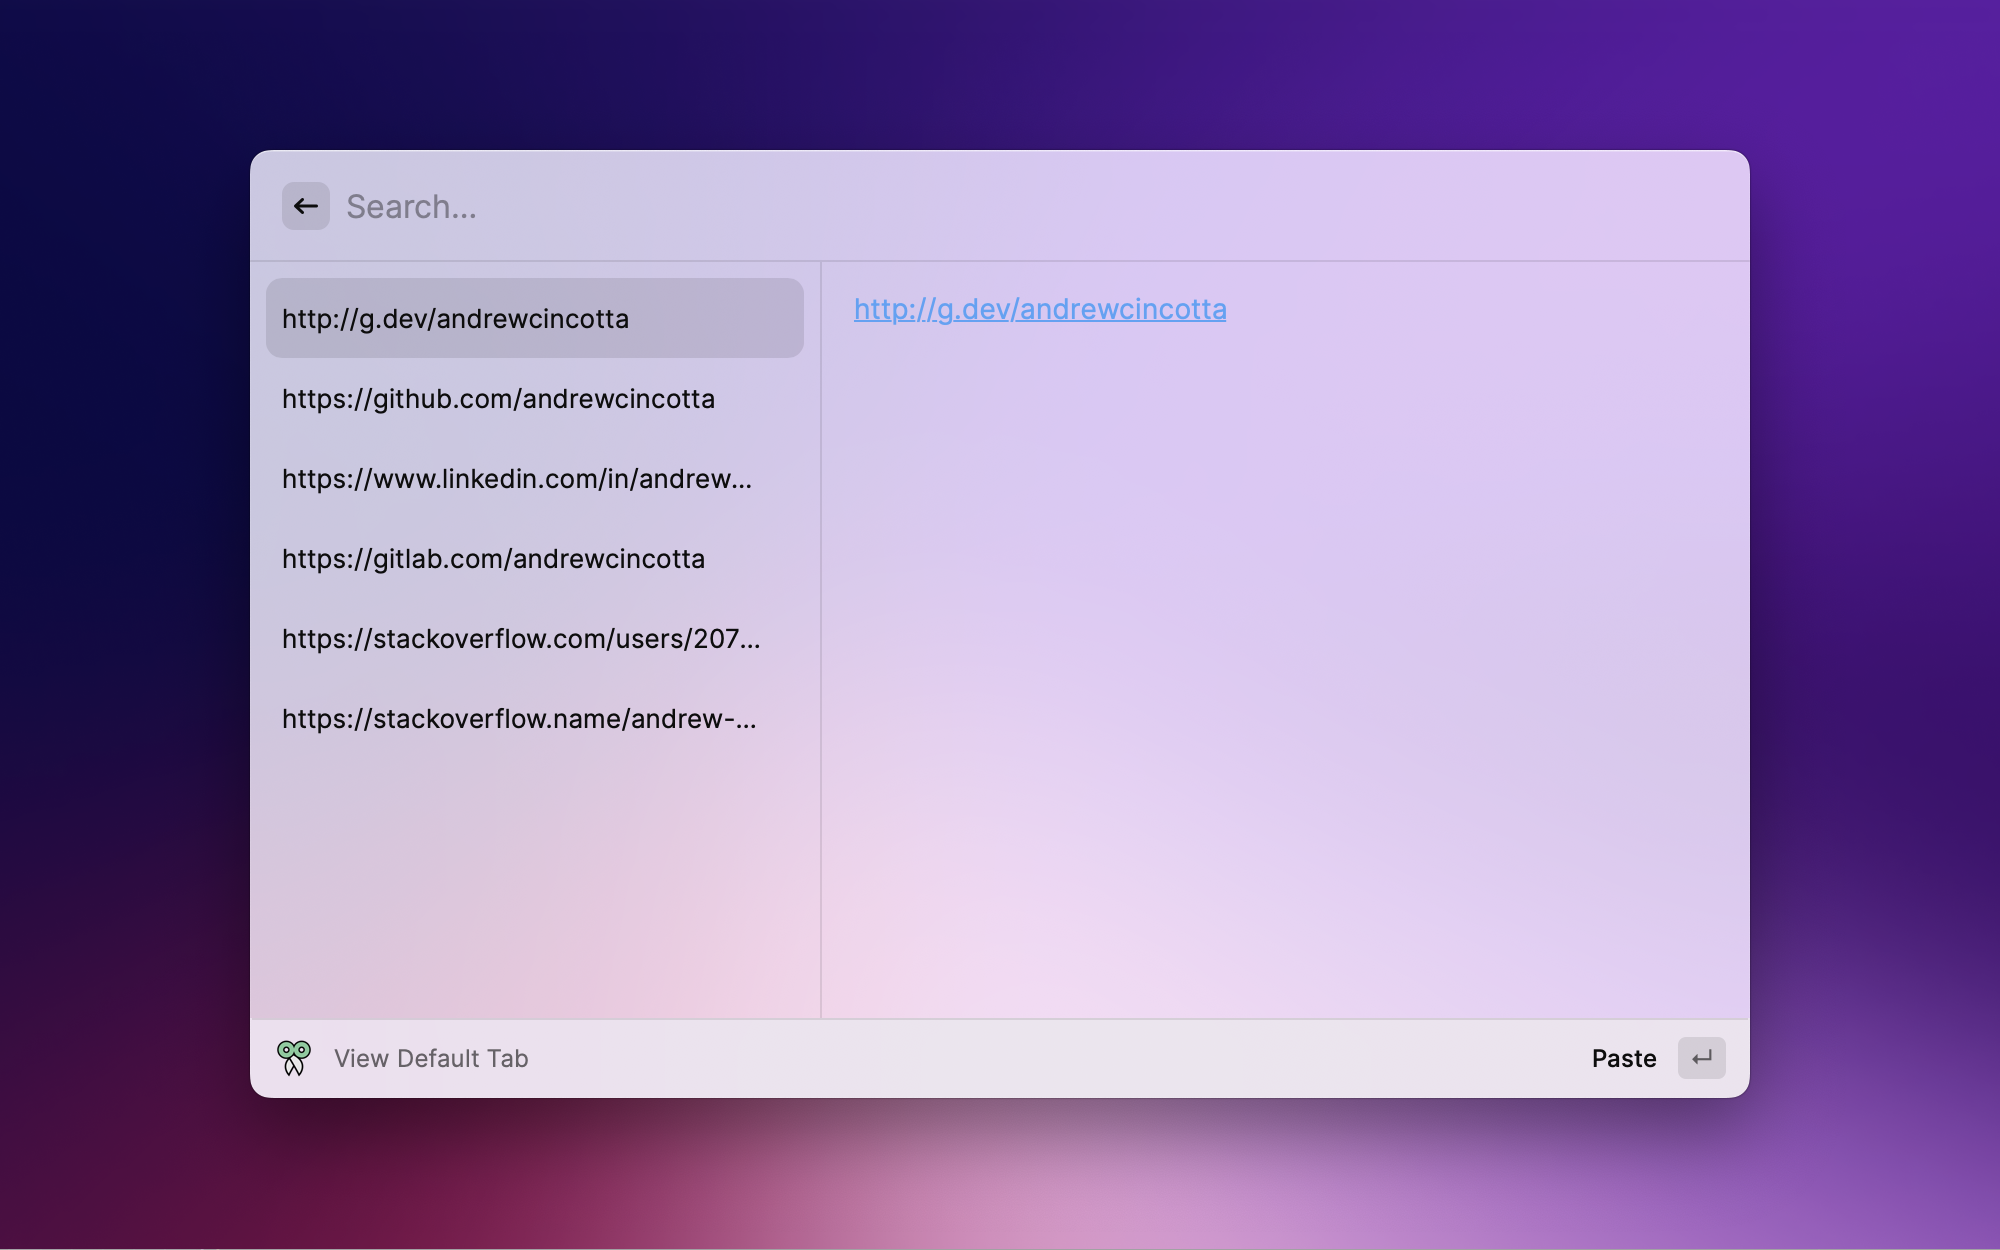
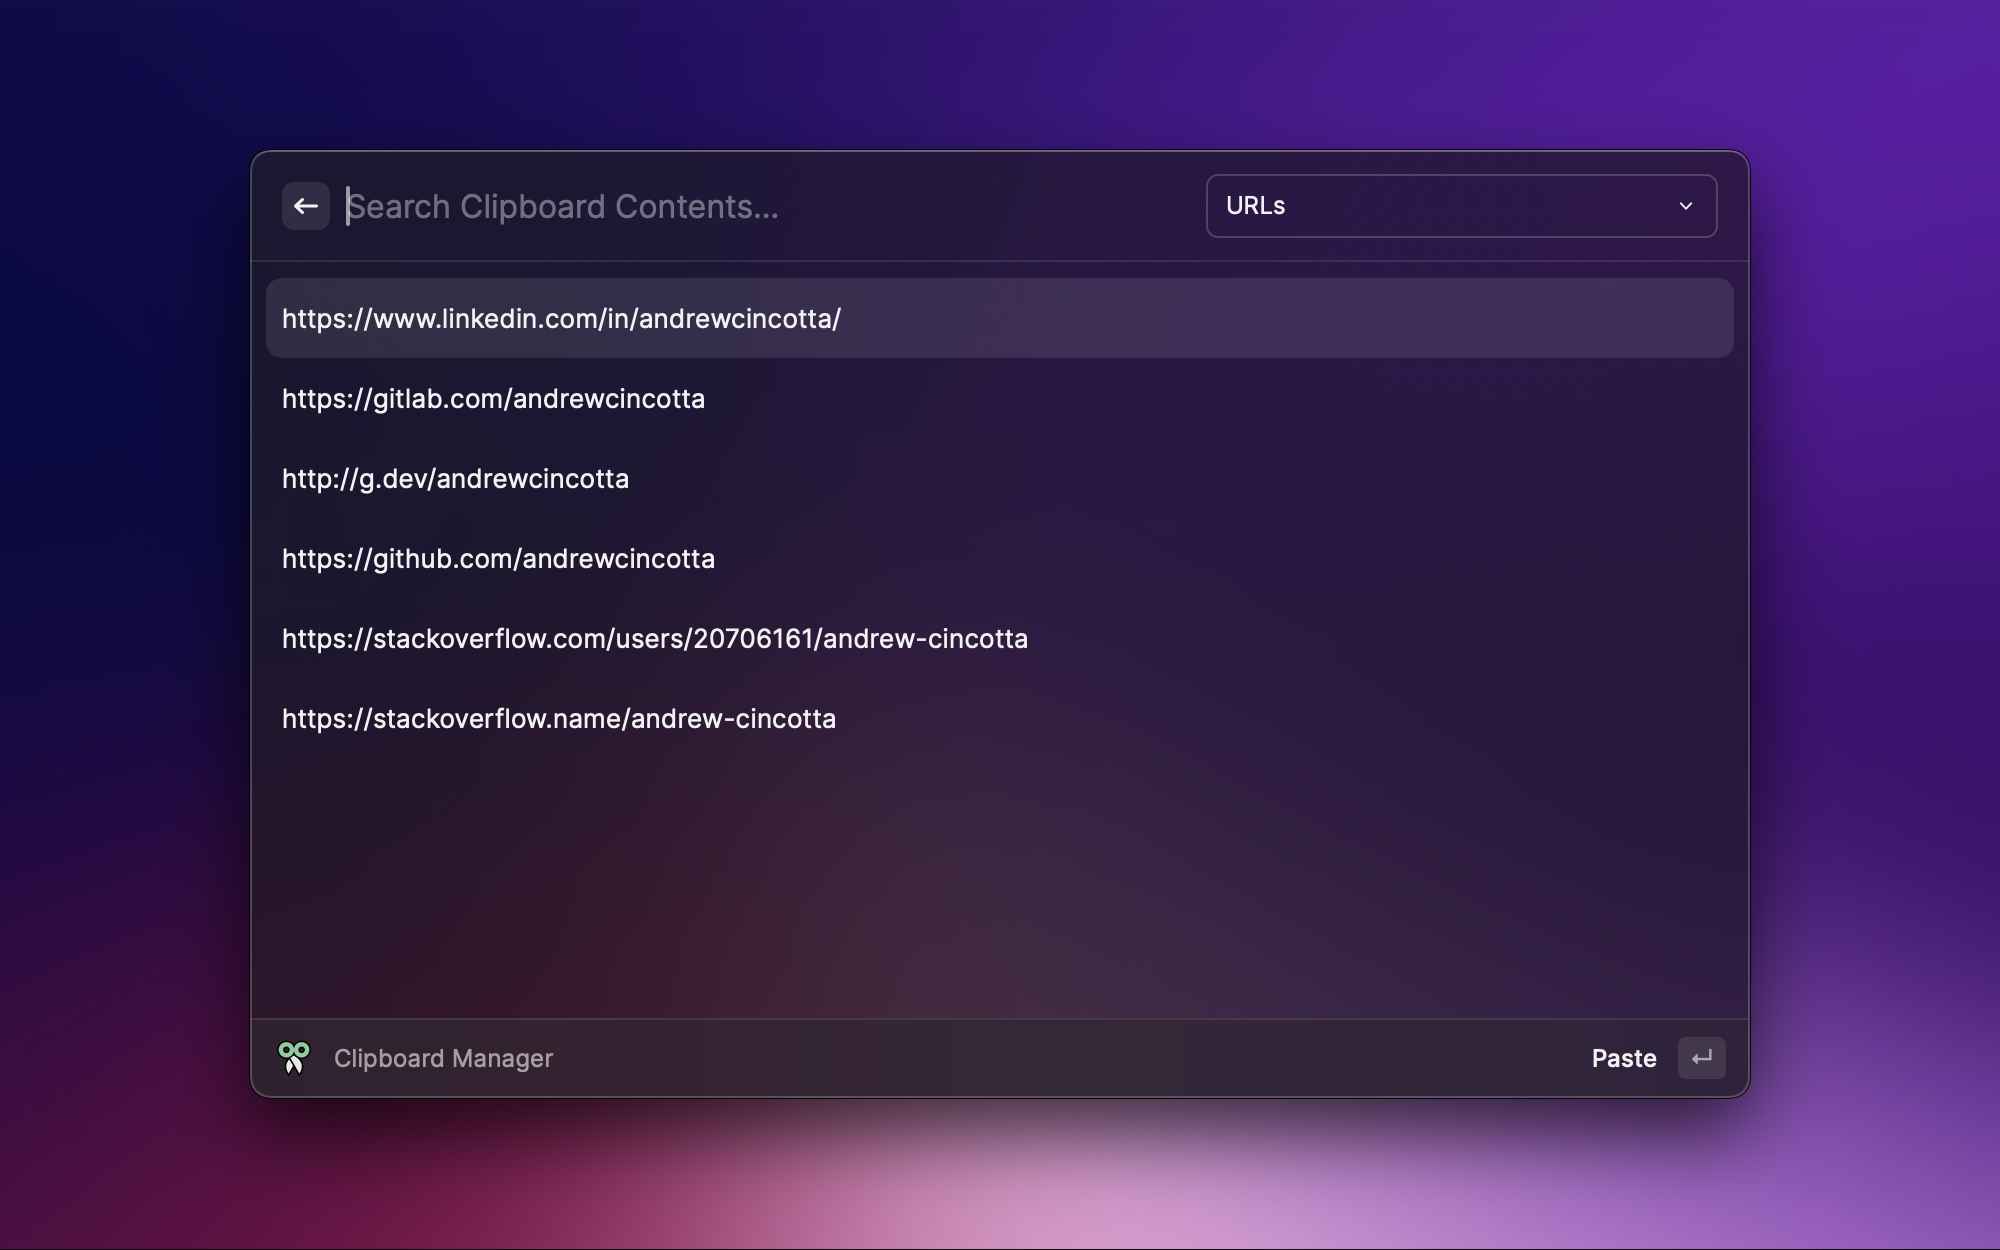
Version 3.0! Consolidated the view-clipboard-entries and select-tab into a single clipboard-manager component.

diff --git a/src/clipboard-manager.tsx b/src/clipboard-manager.tsx
@@ -1,0 +1,149 @@
+import {
+  getPreferenceValues,
+  List,
+  Icon,
+  ActionPanel,
+  Action,
+  Clipboard,
+  Detail,
+  openExtensionPreferences,
+} from "@raycast/api";
+import { useState, useEffect } from "react";
+import { execSync } from "child_process";
+
+// Handle preferences
+interface ExtensionPreferences {
+  copyq_path: string;
+  default_tab: string;
+  max_entries: number;
+}
+const copyqPath = getPreferenceValues<ExtensionPreferences>().copyq_path;
+const maxEntries = getPreferenceValues<ExtensionPreferences>().max_entries;
+
+// Get the list of tabs from CopyQ and return an array of text
+function getTabs(): string[] {
+  const command = `"${copyqPath}" tab`;
+  const stdout = execSync(command, { encoding: "utf8" });
+
+  // Format list of tabs from string to array
+  const lines = stdout.split("\n");
+  const formattedList = lines.filter((line) => line.trim() !== "");
+  // Remove & from items in the list
+  formattedList.forEach((item, index) => {
+    formattedList[index] = item.replace("&", "");
+  });
+
+  return formattedList;
+}
+
+// Dropdown component for selecting a tab
+function TabDropdown(props: { onTabChange: (newTab: string) => void }) {
+  const { onTabChange } = props;
+  const tabs = getTabs();
+  return (
+    <List.Dropdown
+      tooltip="Select a Tab"
+      defaultValue={getPreferenceValues<ExtensionPreferences>().default_tab}
+      storeValue={false}
+      placeholder="Search Tabs"
+      onChange={(newTab) => {
+        onTabChange(newTab);
+      }}
+    >
+      {tabs.map((tab) => (
+        <List.Dropdown.Item key={tab} title={tab} value={tab} />
+      ))}
+    </List.Dropdown>
+  );
+}
+
+// Gets clipboard contents for a given tab and returns an array of text
+function getClipboardContents(tab: string) {
+  if (maxEntries > 0) {
+    // Max entries is greater than 0
+    // Get the number of entries in the tab
+    /*const sizeCommand = `${copyqPath} tab ${tab} count`;
+    const size = parseInt(execSync(sizeCommand, { encoding: "utf8" }));
+    // Check if the number of entries is less than the max entries
+    if (size < maxEntries) {
+      maxEntries = size;
+    }*/
+    const command = `${copyqPath} tab ${tab} 'separator(String.fromCharCode(0)); read.apply(this, [...Array(${maxEntries}).keys()])'`;
+    const stdout = execSync(command, { encoding: "utf8" });
+    return stdout.split("\0");
+  } else {
+    // Max entries is 0
+    const command = `${copyqPath} tab ${tab} 'separator(String.fromCharCode(0)); read.apply(this, [...Array(size()).keys()])'`;
+    const stdout = execSync(command, { encoding: "utf8" });
+    // Return the array split by null characters
+    return stdout.split("\0");
+  }
+}
+
+// Selects clipboard content for a given tab and index
+function selectClipboardContents(tab: string, index: number) {
+  const command = `${copyqPath} tab ${tab} select ${index}`;
+  execSync(command);
+}
+
+export default function Command() {
+  // Error handling for missing CopyQ path and CopyQ not running
+  try {
+    execSync(`${copyqPath} tab`, { encoding: "utf8" });
+  } catch (err) {
+    return (
+      <Detail
+        markdown={
+          "CopyQ not found, or CopyQ server not running\n\nPlease check your CopyQ path in preferences, and make sure CopyQ server is running."
+        }
+        actions={
+          <ActionPanel>
+            <Action title="Open Command Preferences" icon={Icon.Cog} onAction={openExtensionPreferences} />
+            <Action.Paste title="Copy Path to Clipboard" content={copyqPath} />
+          </ActionPanel>
+        }
+      />
+    );
+  }
+
+  const [selectedTab, setSelectedTab] = useState(getPreferenceValues<ExtensionPreferences>().default_tab);
+  const [clipboardContents, setClipboardContents] = useState<string[]>([]);
+  const [maxEntries] = useState(getPreferenceValues<ExtensionPreferences>().max_entries);
+
+  useEffect(() => {
+    const newClipboardContents = getClipboardContents(selectedTab);
+    setClipboardContents(newClipboardContents);
+  }, [selectedTab, maxEntries]);
+
+  const onTabChange = (newTab: string) => {
+    setSelectedTab(newTab);
+  };
+
+  return (
+    <List
+      navigationTitle="Clipboard Manager"
+      searchBarPlaceholder="Search Clipboard Contents"
+      searchBarAccessory={<TabDropdown onTabChange={onTabChange} />}
+    >
+      {clipboardContents.map((text, index) => (
+        <List.Item
+          key={index}
+          title={text}
+          actions={
+            <ActionPanel>
+              <Action
+                title="Paste"
+                icon={Icon.Clipboard}
+                onAction={() => {
+                  selectClipboardContents(selectedTab, index);
+                  Clipboard.paste({ text });
+                }}
+              />
+            </ActionPanel>
+          }
+          detail={<List.Item.Detail markdown={text} />}
+        />
+      ))}
+    </List>
+  );
+}
